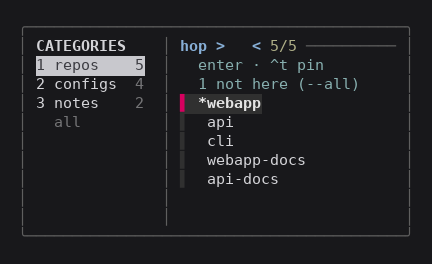
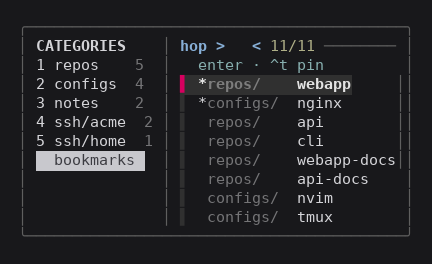
README picture: the whole list, hosts beside bookmarks, taller
The fixture gains an ssh config with three hosts in two groups, and every
bookmark path now exists, so the lead image is the unfiltered list with no
"not here" line. Shot at 24 rows so all of it fits.

diff --git a/README.md b/README.md
@@ -2,7 +2,7 @@
 
 Bookmarks. Directories and ssh servers. Pick one, choose an option, done.
 
-![the picker](docs/demo.png)
+![the picker: bookmarks in three categories and ssh hosts, in one list](docs/demo.png)
 
 `enter` on a row:
 
